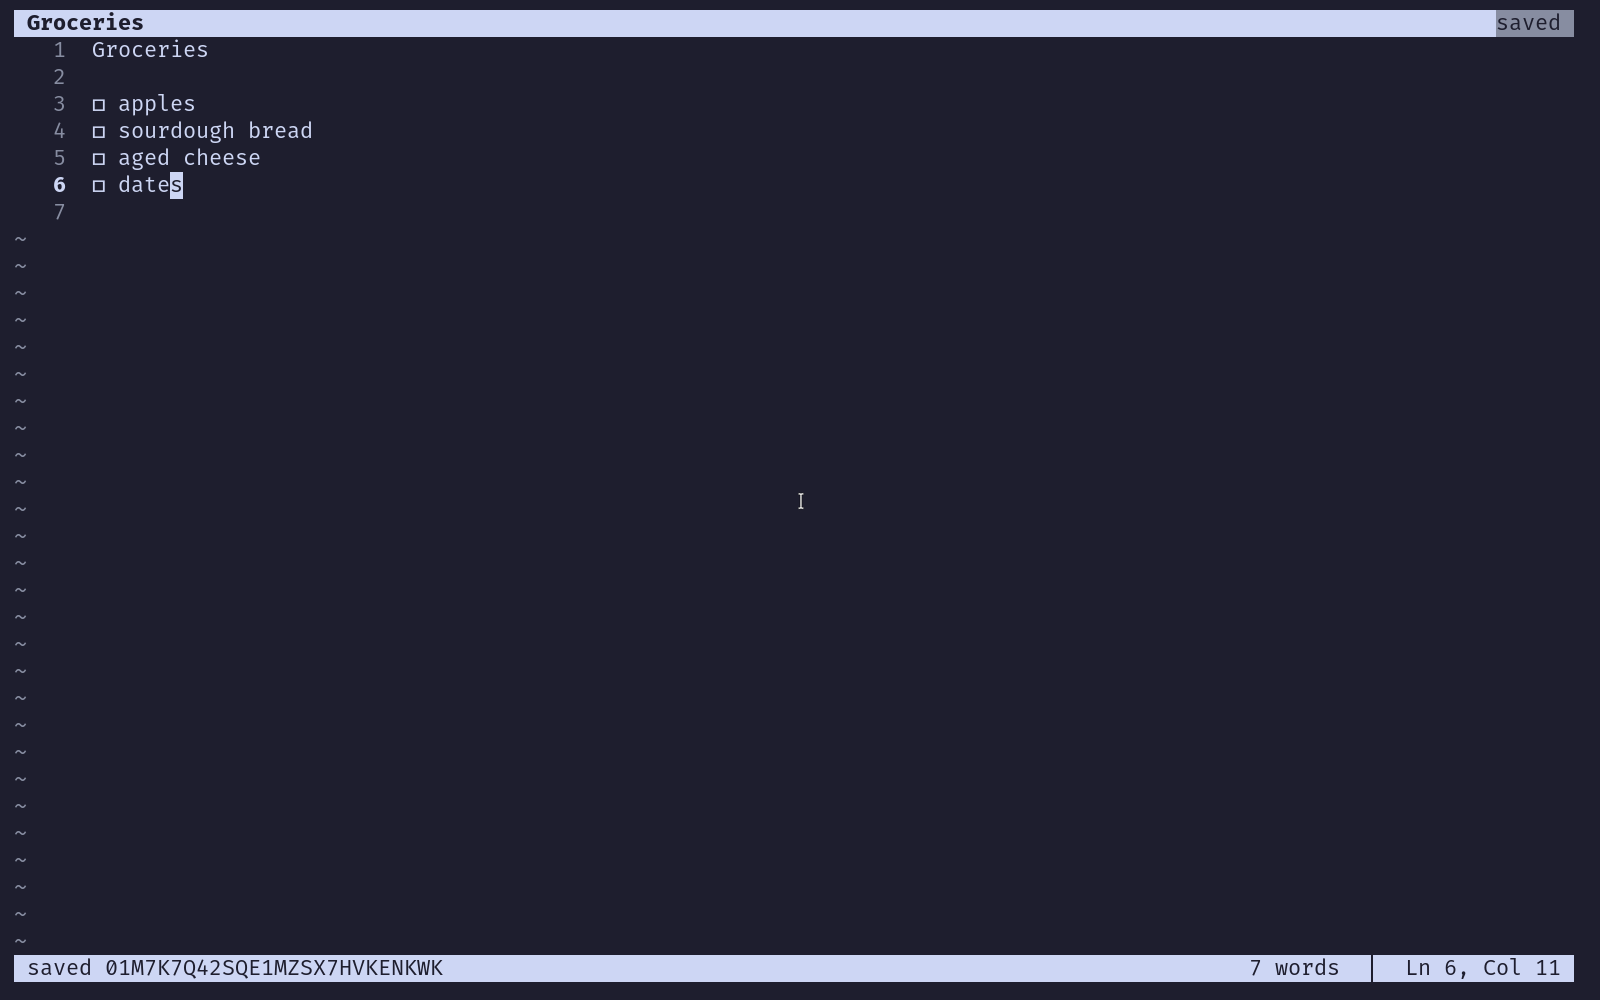
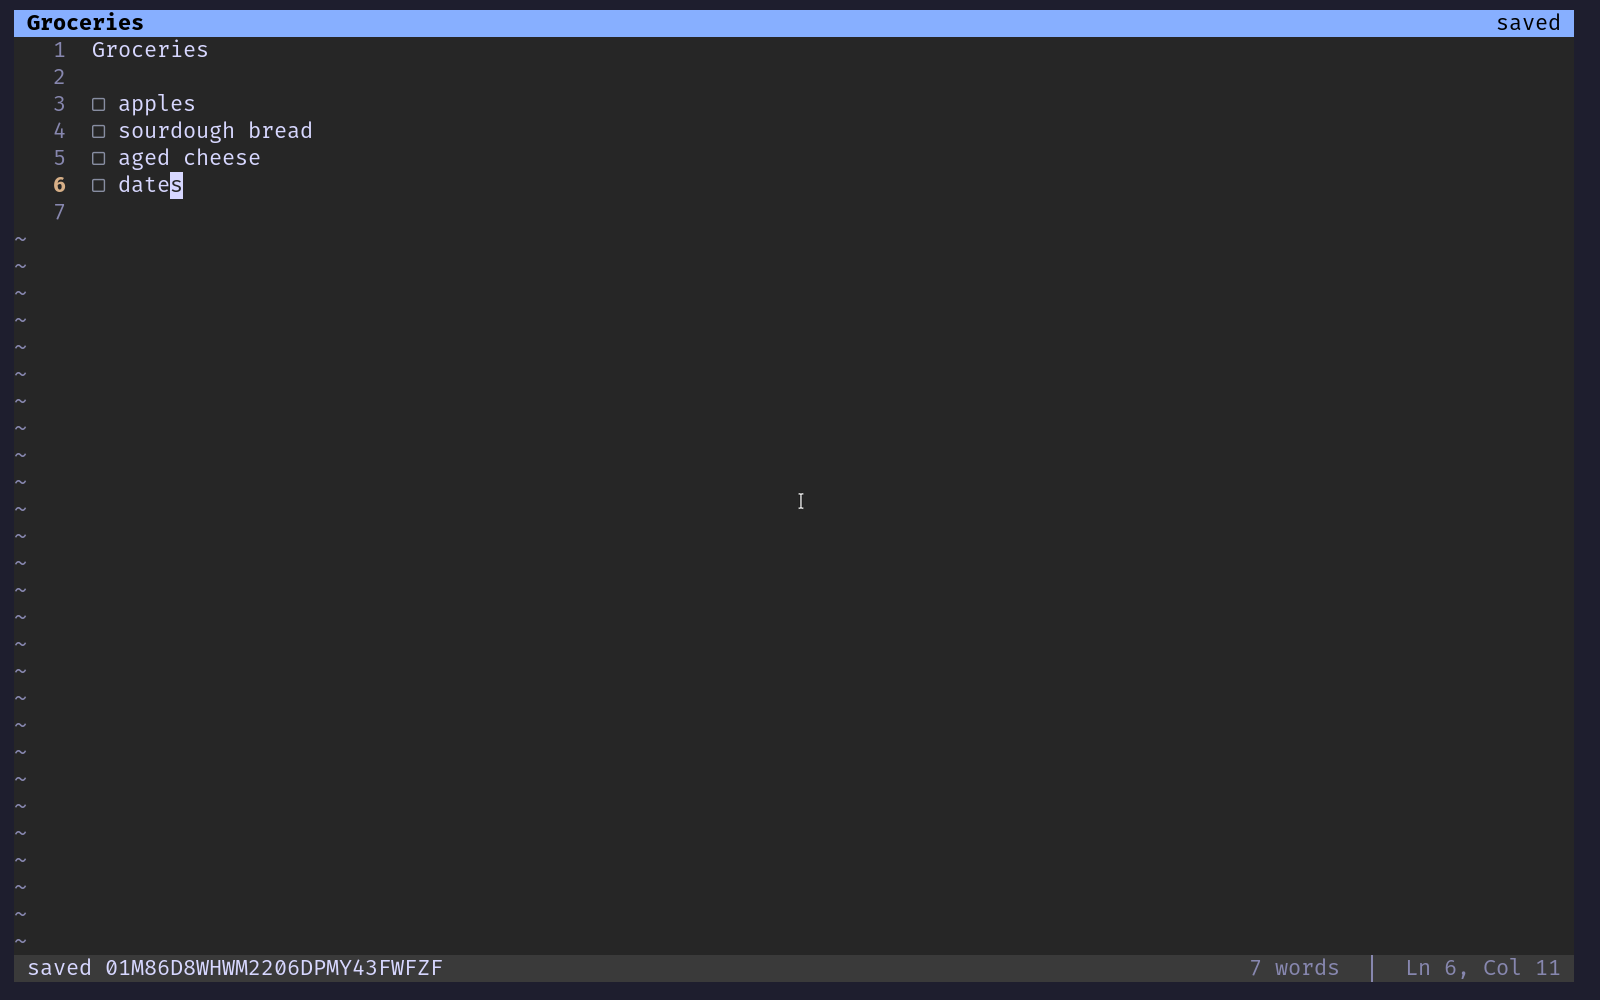
Document the slash insert menu and refresh the terminal recordings

Changed region(s): [[0.0, 0.93, 1.0, 0.992], [0.0, 0.0, 1.0, 0.062]]

diff --git a/scripts/scenarios.py b/scripts/scenarios.py
@@ -87,6 +87,32 @@ def writing(s):
     s.stop("writing")
 
 
+def slash(s):
+    """The / insert menu: browse with previews, filter, insert blocks."""
+    s.gui(GUI)
+    s.record("slash")
+    s.wait(0.8)
+    s.key("ctrl+n", pause=1.0)
+    s.type("Garden day\n\n", delay=50)
+    # The whole menu, then a preview of each block on the way down.
+    s.type("/", delay=50, pause=1.8)
+    s.key("Down", pause=0.9)
+    s.key("Down", pause=1.2)
+    # The page's picture: the menu with a block's preview beside it.
+    s.still("slash")
+    # Typing filters; Enter turns the line into the block.
+    s.type("h2", delay=180, pause=1.0)
+    s.key("Return", pause=0.6)
+    s.type("Morning", delay=50)
+    s.key("Return", pause=0.3)
+    s.type("/to", delay=150, pause=1.0)
+    s.key("Return", pause=0.4)
+    s.type("Water the tomatoes\nPrune the roses\n\n", delay=45, pause=0.5)
+    s.type("/tab", delay=150, pause=1.4)
+    s.key("Return", pause=2.0)
+    s.stop("slash", still=False)
+
+
 def calc(s):
     """Every line is a calculator: arithmetic, percentages, units, times."""
     s.gui(GUI)
@@ -623,6 +649,30 @@ def tui_tour(s):
     s.stop("tui-tour")
 
 
+def tui_slash(s):
+    """The / insert menu and checklists in the terminal app."""
+    s.tui(["--new"])
+    s.record("tui-slash")
+    s.wait(0.8)
+    s.type("Garden day\n\n", delay=55, pause=0.4)
+    s.type("/", delay=55, pause=1.6)
+    s.key("Down", pause=0.6)
+    s.key("Down", pause=0.8)
+    s.type("to", delay=180, pause=1.0)
+    s.key("Return", pause=0.5)
+    s.type("Water the tomatoes\nPrune the roses\nBuy compost", delay=50, pause=0.6)
+    # A trailing " /x" ticks an item: an accent check and dimmed text.
+    s.key("Up", "Up", pause=0.3)
+    s.key("End", pause=0.2)
+    s.type(" /x", delay=180, pause=1.0)
+    s.key("Down", "Down", pause=0.2)
+    s.key("End", pause=0.2)
+    s.type("\n\n/quo", delay=120, pause=1.0)
+    s.key("Return", pause=0.3)
+    s.type("Plant after the last frost.", delay=45, pause=2.0)
+    s.stop("tui-slash")
+
+
 def capture_shell(s):
     """Capture from the shell into today's note, then open it."""
     s.env["PS1"] = "$ "
@@ -714,6 +764,7 @@ def table_fill(s):
 SCENARIOS = {
     "tour": tour,
     "writing": writing,
+    "slash": slash,
     "calc": calc,
     "currency": currency,
     "variables": variables,
@@ -733,6 +784,7 @@ SCENARIOS = {
     "help": help_and_palette,
     "themes": themes,
     "export": export_pdf,
+    "tui-slash": tui_slash,
     "tui-vim": tui_vim,
     "tui-tour": tui_tour,
     "capture": capture_shell,

diff --git a/docs/reference/features.md b/docs/reference/features.md
@@ -20,6 +20,7 @@ Conventions:
   - [Command line entry points](#command-line-entry-points)
   - [Daily notes, capture and pipe append](#daily-notes-capture-and-pipe-append)
   - [Editing and markdown helpers](#editing-and-markdown-helpers)
+    - [Insert menu](#insert-menu)
   - [Inline formatting and list commands](#inline-formatting-and-list-commands)
   - [Vim mode](#vim-mode)
   - [Macros](#macros)
@@ -143,7 +144,7 @@ slate --help | -h
 
 ## Daily notes, capture and pipe append
 
-- **Daily notes**: `slate today` or `:today` (alias `:daily`) opens today's note, creating it from the `[daily]` template (`note_prefix`, default `daily`; `template`, default `"# {date}\n\n"`). The cursor lands at the end, ready to type.
+- **Daily notes**: `slate today` or `:today` (alias `:daily`) opens today's note, creating it from the `[daily]` template (`series`, default `daily`; `template`, default `"# {date}\n\n"`). The cursor lands at the end, ready to type.
 - **Quick capture**: `slate capture buy milk` appends a `- HH:MM buy milk` line to today's daily note without opening the editor. With no text it reads piped stdin, so any command output can be captured:
 
   ```sh
@@ -180,6 +181,35 @@ Markdown stays raw text; styling is drawn in place (no preview pane).
 | `Home` / `End`, `PageUp` / `PageDown` | Line start / end, page up / down                                                                                                |
 | `ArrowUp` / `ArrowDown`               | Move by screen row on wrapped lines; move popup selection when a popup is open                                                  |
 | `Esc`                                 | Close popup, else switch to Normal mode                                                                                         |
+
+### Insert menu
+
+Typing `/` at the start of a line, after a list marker or after a space opens
+the insert menu, in both apps. It stays closed where a slash usually means
+something else: inside code blocks and table rows, on `:=` calculation lines,
+and after a number or `)` (`12 / 4`).
+
+- Type to filter: short names match first (`/h1`, `/todo`, `/num`, `/div`,
+  `/code`), then labels that begin with the text, then labels holding its
+  letters in order. Without a query the entries are grouped as Basic blocks,
+  Structure and Insert.
+- `ArrowUp` / `ArrowDown` move, `Enter` or `Tab` inserts, `Esc` closes the
+  menu and keeps the typed `/text`. Moving the cursor away, leaving Insert
+  mode or typing until nothing matches also closes it.
+- Basic blocks: Text, Heading 1-3, Bulleted, Numbered and To-do lists,
+  Quote, Divider. On a line with text the line is converted (`Trip /h2`
+  becomes `## Trip`); on a blank line the Markdown is started.
+- Structure: Table, Code block, Diagram (opens the canvas on desktop) and
+  Table of contents.
+- Insert: Link to note (opens note completion), Date, Reminder and Image
+  (the `:date`, `:remind` and `:paste-image` commands).
+- Removing the `/text` and inserting the block is one undo step.
+- The typed `/text` sits in a soft rounded box, and a bare `/` shows a faint
+  "Type to search" (dim text in the terminal).
+- On desktop each entry has a glyph and the Markdown it makes, and the
+  highlighted block shows a preview card; the terminal shows the
+  description under the list.
+- `[editor] slash_menu = false` turns it off.
 
 ## Inline formatting and list commands
 
@@ -741,7 +771,7 @@ Details: [Export Reference](export.md).
 ## IMAP email sync
 
 - `slate imap-sync` pulls new messages once; `[imap] auto_sync_on_startup = true` polls in the background while Slate runs.
-- Messages are appended to daily inbox notes (`inbox-email-YYYY-MM-DD` by default), newest first, with UID checkpoints so nothing is imported twice.
+- Messages are appended to daily inbox notes (ULIDs, looked up by email series and local date), newest first, with UID checkpoints so nothing is imported twice.
 - First sync only takes recent mail (`initial_sync_past_days`, default 1). New mail triggers a desktop notification.
 - Any IMAP-over-TLS provider works; the password comes from `password_env`. Build without IMAP: `cargo build -p slate --no-default-features`.
 

diff --git a/docs/reference/configuration.md b/docs/reference/configuration.md
@@ -48,6 +48,7 @@ fallback = ["Symbols Nerd Font Mono", "Noto Color Emoji", "Noto Sans CJK JP"]
 
 [editor]
 markdown_autoformat = true
+slash_menu = true
 checklist_auto_reorder = true
 autosave = true
 reload_outside_changes = true
@@ -75,11 +76,11 @@ encrypt_notes = false
 password_env = "SLATE_NOTES_PASSWORD"
 
 [special_notes]
-email_note_prefix = "inbox-email"
+email_series = "inbox-email"
 email_rotation = "daily-local"
 
 [daily]
-note_prefix = "daily"
+series = "daily"
 template = "# {date}\n\n"
 
 [imap]
@@ -231,6 +232,11 @@ new notes can be created in them.
 - `unicode`: symbols from standard Unicode blocks, for any font.
 - `ascii`: plain ASCII markers.
 
+The terminal draws to-do items with the same set: Nerd Font square and
+check-square boxes, `☐` / `☑` for `unicode`, and the Markdown as written
+(`- [ ]`, `- [x]`) for `ascii`. A done item's check takes the accent colour
+and its text is dimmed and struck through.
+
 
 ### `[theme.colors]`
 
@@ -261,6 +267,7 @@ With `background = "none"`, slate treats the background as dark when picking tex
 `[editor]` keys:
 
 - `markdown_autoformat`
+- `slash_menu` (default `true`): typing `/` at a line start, after a list marker or after a space opens the insert menu; `Esc` keeps the typed text
 - `checklist_auto_reorder`
 - `autosave`
 - `reload_outside_changes`
@@ -313,7 +320,7 @@ Behavior notes:
 
 `[daily]` keys:
 
-- `note_prefix` (default `daily`): daily note ids are `<prefix>-YYYY-MM-DD`
+- `series` (default `daily`): identifies a daily-note series; each date maps to a stable ULID, independently of its title
 - `template` (default `"# {date}\n\n"`): body of a new daily note; `{date}` uses `[editor] date_format`
 
 Daily notes are opened with `:today` or `slate today`, and `slate capture <text>` (or piped stdin) appends a `- HH:MM text` entry without opening the editor.
@@ -322,7 +329,7 @@ Daily notes are opened with `:today` or `slate today`, and `slate capture <text>
 
 `[special_notes]` keys:
 
-- `email_note_prefix`
+- `email_series` (default `inbox-email`): identifies the daily email-capture series; note IDs are ULIDs
 - `email_rotation` (currently `daily-local`)
 
 ## IMAP

diff --git a/docs/writing.md b/docs/writing.md
@@ -35,6 +35,37 @@ and `Shift+Tab` indent and outdent an item.
 `[editor] checklist_auto_reorder = true`, ticked items move below the open
 ones, as in the recording above.
 
+## The insert menu
+
+Type `/` at the start of a line, after a list marker or after a space, and an
+insert menu opens, in both apps. Keep typing to filter it: short names such
+as `/h2`, `/todo`, `/num`, `/quote`, `/code` or `/table` jump straight to
+their block. `↑`/`↓` move, `Enter` or `Tab` inserts, and `Esc` closes the
+menu and leaves what you typed as text.
+
+=== "Recording"
+
+    ![The insert menu: a preview of each block, filtering by typing, then a heading, a checklist and a table](media/slash.gif)
+
+=== "Screenshot"
+
+    [![The insert menu: a preview of each block, filtering by typing, then a heading, a checklist and a table](media/slash.png)](media/slash.png)
+
+- **Basic blocks:** text, headings 1–3, bulleted, numbered and to-do lists,
+  a quote and a divider. On a line with text the line is converted
+  (`Trip /h2` becomes a `## Trip` heading).
+- **Structure:** a table, a code block, a diagram and a table of contents.
+- **Insert:** a link to another note, a date, a reminder or the image on the
+  clipboard.
+- Inserting is one undo step, and macros and `.` repeat it.
+- The menu stays closed where a slash means something else: inside code
+  blocks and tables, on `:=` calculation lines and after a number (`12 / 4`).
+  `[editor] slash_menu = false` turns it off.
+
+On the desktop each entry shows its glyph and the Markdown it makes, with a
+preview of the highlighted block; the terminal shows a short description
+under the list.
+
 ## Formatting from the keyboard
 
 Select text, then run a format command, or on the desktop use the small

diff --git a/docs/terminal-app.md b/docs/terminal-app.md
@@ -31,6 +31,22 @@ shows hints for the main keys (`[editor] status_hints = false` hides them),
 and while text is selected it shows the sum, average and count of the
 numbers in it.
 
+## Writing
+
+The editor is the desktop app's: Markdown styled as you type, lists that
+continue themselves, and the `/` [insert menu](writing.md#the-insert-menu)
+for headings, lists, tables, code blocks and more. To-do items are drawn
+as boxes from your `[theme] icons` set (Nerd Font by default); a done item's
+check takes the accent colour and its text is dimmed and struck through.
+
+=== "Recording"
+
+    ![The terminal app: the insert menu, a checklist with a ticked item, and a quote](media/tui-slash.gif)
+
+=== "Screenshot"
+
+    [![The terminal app: the insert menu, a checklist with a ticked item, and a quote](media/tui-slash.png)](media/tui-slash.png)
+
 ## What differs from the desktop app
 
 - **Diagrams** show their source text. `:diagram` inserts an empty diagram
